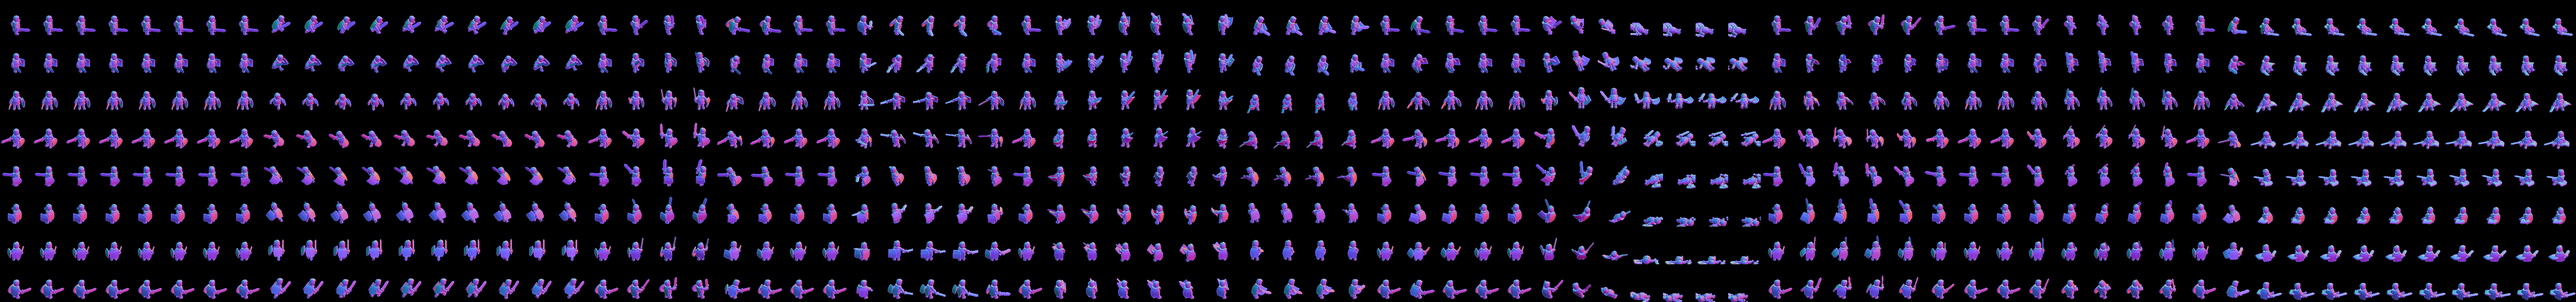
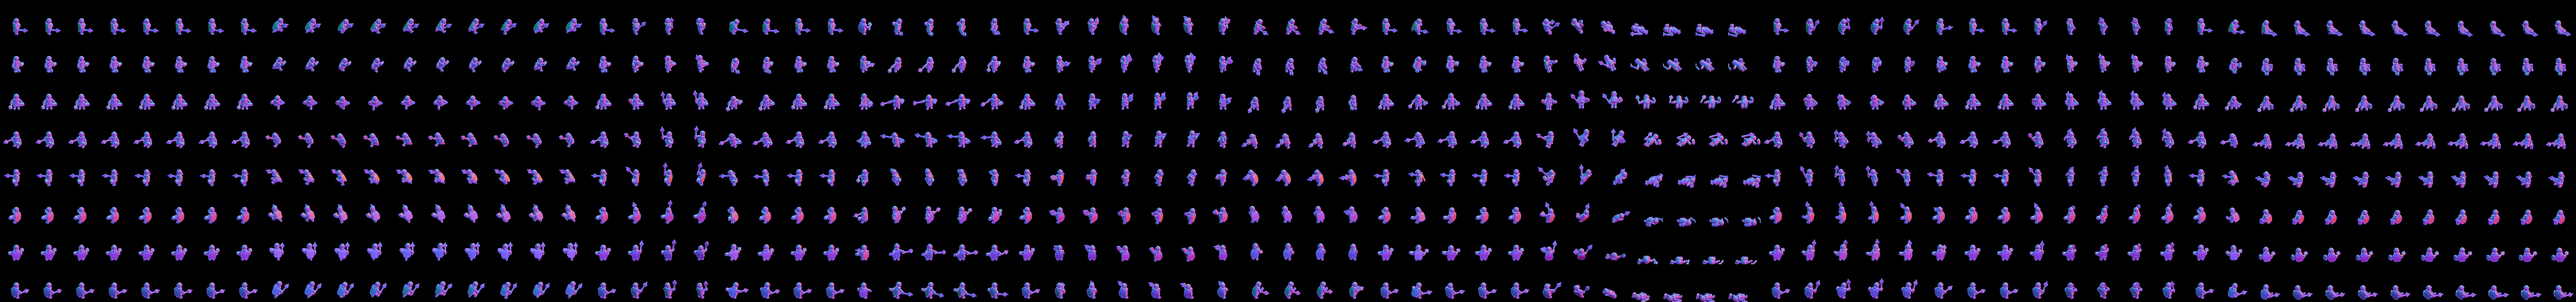
Cleric: off-white vestments and a flanged mace, clearly not a fighter
The cleric looked like a bareheaded knight (a warm-grey recolour of the
Knight, with sword and kite shield). It is now the KayKit Mage with the
robe swatch repainted off-white, gold trim, a grey stole (the Grey
Sisters), a chained psalter in the off hand and a flanged mace in the
sword hand. The mace is our own model, built in code.

Actor lab:
- props.js (new), shared by the figure and icon bakes:
  - PROPS.mace: an ash haft, leather grip, brass bands, and six
    diamond-profile iron flanges. The first box flanges read as a
    block at 56 px; the diamond profile gives a star silhouette.
  - swatches()/repaint(): recolour whole swatches of a KayKit 8 × 4
    gradient texture by each swatch's own luminance, so only the parts
    that use a swatch change and their shading survives. The old C1
    CSS filter tinted everything, face included.
- lab.js: new variant knobs `hold` ({ bone: prop }, carried like the
  kits' 1H weapons; it gets weapon anchors) and `swatches`.
- iconlab.js / icons.cjs: proc "mace"; `swatches` on kit meshes, or a
  variant's (`"swatches": "C1"`).
- Re-baked hero_cleric (79 frames × 8 dirs). New icons: mace, psalter,
  armor_vestments.

Items: the cleric's kit is now Mace, Chained Psalter, Vestments and
Pilgrim Boots. Each copies the stats of the item it replaces (Chapel
Sword, Kite Shield, Plate Harness, Sabatons), so the class's numbers are
identical at every level. A new test in test/cleric.test.mjs checks this
[…]

diff --git a/tools/actor-lab/props.js b/tools/actor-lab/props.js
@@ -1,0 +1,63 @@
+// props.js — what the KayKit packs don't have, shared by the figure bake (lab.js) and the icon
+// bake (iconlab.js) so the weapon in a hand and its icon are one object:
+//   PROPS      small code-built meshes a variant can put in a hand slot (`hold` in variants.json)
+//   swatches() repaint whole colour swatches of a KayKit texture (`swatches` in variants.json)
+// Our own models, so no licence beyond the repo's.
+import * as THREE from 'three';
+
+const mat = (color, metalness, roughness) => new THREE.MeshStandardMaterial({ color, metalness, roughness });
+
+// Each prop runs along +y from the grip (the hand slot's origin), like the kits' one-handed
+// weapons (the 1H sword: −0.37 … 1.41), so the swing clips carry it the same way.
+export const PROPS = {
+  // a flanged mace: dark ash haft, leather grip, brass bands, an iron head of six flanges
+  mace: () => {
+    const g = new THREE.Group(); g.name = 'Mace';
+    const wood = mat(0x4a3322, 0, 0.85), leather = mat(0x2e1f18, 0, 0.9), brass = mat(0xb8903c, 0.8, 0.35), iron = mat(0x9aa0a6, 0.85, 0.35);
+    const add = (geo, m, y, name) => { const o = new THREE.Mesh(geo, m); o.position.y = y; o.name = name; g.add(o); return o; };
+    add(new THREE.CylinderGeometry(0.062, 0.07, 1.02, 10), wood, 0.28, 'Mace_Haft');
+    add(new THREE.CylinderGeometry(0.08, 0.08, 0.34, 10), leather, -0.02, 'Mace_Grip');
+    add(new THREE.SphereGeometry(0.1, 12, 8), brass, -0.25, 'Mace_Pommel');
+    for (const y of [0.17, 0.7]) add(new THREE.CylinderGeometry(0.085, 0.085, 0.06, 12), brass, y, 'Mace_Band');
+    add(new THREE.CylinderGeometry(0.12, 0.1, 0.38, 12), iron, 0.92, 'Mace_Head');
+    // the flanges: six pointed blades standing out from the head (a diamond profile, so the
+    // silhouette is a star, not a block)
+    const blade = new THREE.Shape([[0, -0.22], [0.13, -0.06], [0.14, 0.06], [0, 0.22]].map(([x, y]) => new THREE.Vector2(x, y)));
+    const fg = new THREE.ExtrudeGeometry(blade, { depth: 0.05, bevelEnabled: false }); fg.translate(0, 0, -0.025);
+    for (let k = 0; k < 6; k++) {
+      const f = new THREE.Mesh(fg, iron), a = k * Math.PI / 3;
+      f.position.set(Math.cos(a) * 0.1, 0.92, Math.sin(a) * 0.1); f.rotation.y = -a; f.name = 'Mace_Flange'; g.add(f);
+    }
+    add(new THREE.ConeGeometry(0.1, 0.16, 10), iron, 1.18, 'Mace_Cap');
+    add(new THREE.SphereGeometry(0.065, 10, 8), brass, 1.28, 'Mace_Knop');
+    return g;
+  },
+};
+
+// KayKit textures are an 8 × 4 grid of gradient swatches; a mesh's colour is the swatch its UVs
+// sit in. swatches(image, [{ tile: [col, row], to: [light, dark] }]) repaints each listed swatch
+// between two colours by the swatch's own luminance, so its gradient and highlight stripe survive.
+export function swatches(img, list) {
+  const cv = document.createElement('canvas'); cv.width = img.width; cv.height = img.height;
+  const x = cv.getContext('2d', { willReadFrequently: true }); x.drawImage(img, 0, 0);
+  const tw = img.width / 8, th = img.height / 4, hex = (h) => [1, 3, 5].map((i) => parseInt(h.slice(i, i + 2), 16));
+  for (const { tile: [c, r], to: [light, dark] } of list) {
+    const d = x.getImageData(c * tw, r * th, tw, th), p = d.data, L = hex(light), D = hex(dark);
+    let lo = 255, hi = 0; const lum = (i) => 0.3 * p[i] + 0.59 * p[i + 1] + 0.11 * p[i + 2];
+    for (let i = 0; i < p.length; i += 4) { const l = lum(i); lo = Math.min(lo, l); hi = Math.max(hi, l); }
+    for (let i = 0; i < p.length; i += 4) { const t = hi > lo ? (lum(i) - lo) / (hi - lo) : 1; for (let k = 0; k < 3; k++) p[i + k] = D[k] + (L[k] - D[k]) * t; }
+    x.putImageData(d, c * tw, r * th);
+  }
+  return cv;
+}
+
+// swap every textured material under `root` for one whose map has the swatches repainted
+export function repaint(root, list) {
+  const done = new Map();
+  root.traverse((o) => { if (!o.isMesh || !o.material.map || /Eyes/.test(o.name)) return;
+    let m = done.get(o.material);
+    if (!m) { const src = o.material.map, t = new THREE.CanvasTexture(swatches(src.image, list));
+      t.flipY = src.flipY; t.colorSpace = src.colorSpace; t.magFilter = src.magFilter; t.minFilter = src.minFilter; t.wrapS = src.wrapS; t.wrapT = src.wrapT;
+      m = o.material.clone(); m.map = t; done.set(o.material, m); }
+    o.material = m; });
+}

diff --git a/src/sim/items.js b/src/sim/items.js
@@ -8,7 +8,7 @@
 // Rare 2); mod = a Rare's ability modifier ({ ab, k: 'cost' | 'power', v }).
 // Stat keys: hp, mp, atk, def, crit, dodge (%), hpr, mpr (per second).
 // A base belongs to one class (cls), or 'any'; `also` lists other classes that can wear it
-// (the cleric shares the fighter's shields, plate and sword).
+// (the cleric can also wear the fighter's shields, plate and sword).
 
 export const SLOTS = ['weapon', 'off', 'helm', 'armor', 'boots', 'trinket'];
 export const SLOT_LABEL = { weapon: 'Weapon', off: 'Off-hand', helm: 'Helm', armor: 'Armor', boots: 'Boots', trinket: 'Trinket' };
@@ -56,7 +56,13 @@ export const BASES = {
   witchhat:    { name: 'Witch Hat', slot: 'helm', cls: 'mage', icon: 'hat_mage', kind: 'robes', st: { def: [0.3, 0.08], mp: [3, 1.1] } },
   robes:       { name: 'Robes', slot: 'armor', cls: 'mage', icon: 'armor_robe', kind: 'robes', st: { def: [0.5, 0.18], mp: [4, 1.6] } },
   slippers:    { name: 'Slippers', slot: 'boots', cls: 'mage', icon: 'boots_mage', kind: 'robes', st: { def: [0.2, 0.06], mpr: [0.1, 0.02] } },
-  // ── cleric (plus the fighter's sword, shields, great helm, plate and sabatons)
+  // ── cleric (plus the fighter's sword, shields, great helm, plate and sabatons). The kit the
+  // model wears (mace, psalter, vestments, pilgrim boots) carries the same stats the old
+  // sword-and-plate kit did, so the class's numbers didn't move when its look changed.
+  mace:        { name: 'Mace', slot: 'weapon', cls: 'cleric', hands: 1, icon: 'mace', kind: 'mace', st: { atk: [0.9, 0.32], mp: [2, 0.8] }, metal: true },
+  psalter:     { name: 'Chained Psalter', slot: 'off', cls: 'cleric', icon: 'psalter', kind: 'prayer book', st: { def: [1.2, 0.32] } },
+  vestments:   { name: 'Vestments', slot: 'armor', cls: 'cleric', icon: 'armor_vestments', kind: 'robes', st: { def: [1, 0.35], hp: [5, 2] } },
+  pilgrimboots: { name: 'Pilgrim Boots', slot: 'boots', cls: 'cleric', icon: 'boots_mage', kind: 'leather', st: { def: [0.5, 0.15] } },
   chapelsword: { name: 'Chapel Sword', slot: 'weapon', cls: 'cleric', hands: 1, icon: 'sword_1h', kind: 'sword', st: { atk: [0.9, 0.32], mp: [2, 0.8] }, metal: true },
   hours:       { name: 'Book of Hours', slot: 'off', cls: 'cleric', icon: 'tome', kind: 'prayer book', st: { mp: [4, 1.4], def: [0.3, 0.1] } },
   // ── trinkets (any class)
@@ -69,7 +75,7 @@ export const STARTER = {
   fighter: { weapon: 'sword', off: 'roundshield', helm: 'greathelm', armor: 'plate', boots: 'sabatons' },
   rogue: { weapon: 'dagger', off: 'offdagger', helm: 'hood', armor: 'leathers', boots: 'softboots' },
   mage: { weapon: 'staff', helm: 'witchhat', armor: 'robes', boots: 'slippers' },
-  cleric: { weapon: 'chapelsword', off: 'kite', armor: 'plate', boots: 'sabatons' },   // bareheaded, the Sisters' badge on the shield
+  cleric: { weapon: 'mace', off: 'psalter', armor: 'vestments', boots: 'pilgrimboots' },   // bareheaded, off-white vestments (a Grey Sister's cleric)
 };
 export const CLASS_IDS = ['fighter', 'rogue', 'mage', 'cleric'];
 /** the classes that can wear a base ([] = any) @param {any} B */

diff --git a/tools/actor-lab/lab.js b/tools/actor-lab/lab.js
@@ -3,8 +3,9 @@
 // figure is TARGET_PX tall at native resolution, no AA. Driven by render.cjs.
 //
 // Variant knobs (see variants.json): which accessory meshes to show (loadout),
-// weapons to parent onto hand bones, a CSS-filter texture recolor (enemy NPCs
-// reuse hero models), glowing-eye color, pose clip, and stock vs HEROIC
+// weapons to parent onto hand bones, code-built props for a hand slot and swatch
+// repaints (props.js: the cleric's mace and vestments), a CSS-filter texture recolor
+// (enemy NPCs reuse hero models), glowing-eye color, pose clip, and stock vs HEROIC
 // proportions. Heroic = smaller head + joints pushed outward to lengthen legs,
 // arms and torso without thickening them; applied AFTER each pose is sampled,
 // because the clips key scale + translation on every bone.
@@ -13,6 +14,7 @@
 // 'lowerleg.l' → 'lowerlegl'); findNode()/applyHeroic() match both spellings.
 import * as THREE from 'three';
 import { GLTFLoader } from 'three/addons/loaders/GLTFLoader.js';
+import { PROPS, repaint } from './props.js';
 // figure height in native px (?px=, default 46); the cell scales with it, feet sit 6px above the bottom
 const TARGET_PX = +(new URLSearchParams(location.search).get('px') || 46);
 const W = Math.round(72 * TARGET_PX / 46), H = Math.round(84 * TARGET_PX / 46);
@@ -58,6 +60,8 @@ async function build(v) {
   const acc = ACC[v.model] || [];
   root.traverse((o) => { if (o.isMesh) { o.frustumCulled = false; if (acc.includes(o.name) && !(v.show || []).includes(o.name)) o.visible = false; } });
   for (const [bone, file] of Object.entries(v.attach || {})) { const w = await load(`./models/${file}`); findNode(root, bone)?.add(w.scene); }
+  for (const [bone, name] of Object.entries(v.hold || {})) { const p = PROPS[name](); p.position.y = 0.033; findNode(root, bone)?.add(p); }   // sits like the kits' 1H weapons
+  if (v.swatches) repaint(root, v.swatches);
   if (v.recolor) recolor(root, v.recolor);
   if (v.eyes) root.traverse((o) => { if (o.isMesh && /Eyes/.test(o.name)) { o.material = o.material.clone(); o.material.emissive = new THREE.Color(v.eyes); o.material.emissiveIntensity = 3; } });
   return { root, mixer: new THREE.AnimationMixer(root), clips: g.animations };

diff --git a/tools/actor-lab/iconlab.js b/tools/actor-lab/iconlab.js
@@ -2,9 +2,12 @@
 // and the weapon in the figure's hand are one object. Each icon isolates one accessory mesh
 // (or a small procedural trinket), turns it to the classic RPG diagonal (grip bottom-left,
 // point top-right) with a 3/4 tilt, lights it warm key + cool rim, renders at 4× and
-// area-averages down, then adds a 1 px ink outline. Driven by icons.cjs (icons.json).
+// area-averages down, then adds a 1 px ink outline. Driven by icons.cjs (icons.json). A spec's
+// `swatches` repaints the kit texture the way the figure's variant does (props.js), and the
+// cleric's mace is the same code-built prop the figure holds.
 import * as THREE from 'three';
 import { GLTFLoader } from 'three/addons/loaders/GLTFLoader.js';
+import { PROPS, repaint } from './props.js';
 
 const SS = 4, INK = [10, 7, 16];
 const R = new THREE.WebGLRenderer({ antialias: false, alpha: true, preserveDrawingBuffer: true });
@@ -16,6 +19,7 @@ const std = (color, o = {}) => new THREE.MeshStandardMaterial({ color, metalness
 
 // small trinkets the kits don't have
 const PROC = {
+  mace: () => { const g = new THREE.Group(), m = PROPS.mace(); m.rotation.z = -Math.PI / 4; m.rotation.y = 0.26; g.add(m); g.rotation.x = 0.3; return g; },   // grip bottom-left, head top-right
   ring: () => { const g = new THREE.Group(), gold = std(0xd9a441, { metalness: 0.95, roughness: 0.28 });
     g.add(new THREE.Mesh(new THREE.TorusGeometry(1, 0.2, 18, 56), gold));
     const set = new THREE.Mesh(new THREE.CylinderGeometry(0.34, 0.4, 0.22, 16), gold); set.position.y = 1.12; g.add(set);
@@ -36,6 +40,9 @@ const PROC = {
 // the accessory as a standalone group (its meshes re-expressed relative to the node)
 async function part(spec) {
   if (spec.proc) return PROC[spec.proc]();
+  const out = await kitPart(spec); if (spec.swatches) repaint(out, spec.swatches); return out;
+}
+async function kitPart(spec) {
   const g = (await load(`./models/${spec.file}`)).scene; g.updateMatrixWorld(true);
   const names = spec.meshes || [spec.mesh], out = new THREE.Group();
   const first = spec.mesh || spec.meshes ? g.getObjectByName(names[0]) : g; if (!first) throw new Error('no mesh ' + names[0]);

diff --git a/docs/emberfall-gdd.md b/docs/emberfall-gdd.md
@@ -253,11 +253,13 @@ from the Grey Sisters, world doc §4): playable at creation and hireable at ever
 | Class bonus | +10 % DEF while carrying a shield | Crits from behind the target deal +25 % | Spells deal +20 % to a foe with two or more others within 2 tiles | Heals are +20 % stronger |
 | Abilities | **Cleave** (10 MP: 1.3× to target and adjacent) · **Shield Wall** (20 MP: +50 % DEF for 6 s, taunt) · **Second Wind** (25 MP: heal 25 % HP) | **Backstab** (10 MP: 1.6×, +25 % crit) · **Smoke Step** (15 MP: +30 % dodge for 5 s, drop aggro) · **Venom** (20 MP: poison over time) | **Firebolt** (12 MP: 1.8×) · **Frost Nova** (30 MP: 0.8× area, slow) · **Arcane Ward** (25 MP: shield an ally for 30 % of their max HP) | **Mend** (12 MP: heal the most hurt ally 22 % of max HP) · **Bless** (25 MP: the party +15 % ATK and DEF for 8 s) · **Turn Undead** (30 MP: 1.6× to every Ashbound within 3 tiles) |
 | Passive (20) | *Iron Hide*: +10 % DEF, double HP regen below 30 % HP | *Opportunist*: crits restore 5 MP | *Kindled Mind*: +25 % MP regen | *Lifeline*: once a room visit, an ally who would be Downed holds on at 1 HP |
-| Model (KayKit) | Knight / Barbarian | Rogue / Rogue Hooded | Mage | Knight, bareheaded, with the Sisters' badge shield, in warm grey |
+| Model (KayKit) | Knight / Barbarian | Rogue / Rogue Hooded | Mage | Mage, bareheaded, in off-white vestments with a grey stole, a flanged mace (our own model) and a chained psalter |
 
 The class bonuses sit on top of the class table: a fighter in the class kit (with its round
-shield) has 15.4 DEF. The kit is sword, kite shield, plate and sabatons for the cleric, which
-shares the fighter's sword, shields, great helm, plate and sabatons and has two items of its
+shield) has 15.4 DEF. The cleric's kit is a mace, a chained psalter, vestments and pilgrim boots.
+It carries the same stats as the fighter-style kit it replaced (sword, kite shield, plate and
+sabatons), so the class's numbers are unchanged; only its look is different. The cleric can also
+wear the fighter's sword, shields, great helm, plate and sabatons, and has two more items of its
 own (Chapel Sword, Book of Hours). Recommended build: Grit, Focus, Grit.
 
 **Future class** (sourced from the Grey Sisters in the world doc):

diff --git a/tools/actor-lab/README.md b/tools/actor-lab/README.md
@@ -69,6 +69,7 @@ WebGL. Set `CHROME_PATH` if Chromium isn't at the sandbox's `/opt/pw-browsers` p
 | file | role |
 |---|---|
 | `lab.js` / `lab.html` | three.js harness: loadouts, weapon attachment, recolor, glowing eyes, heroic pass, render |
+| `props.js` | what the kits lack, shared by figures and icons: code-built props (the cleric's mace) and the swatch repaint |
 | `variants.json` | the roster: 10 hero loadouts (fighter/rogue/mage) + 8 enemy NPCs |
 | `bake.cjs` / `bake.json` | bake the shipped actor atlases into `assets/actors/` |
 | `icons.cjs` / `iconlab.js` / `icons.json` | bake the item icons into `assets/items/` (one kit mesh or code-built trinket per icon, 96 px) |
@@ -83,6 +84,13 @@ WebGL. Set `CHROME_PATH` if Chromium isn't at the sandbox's `/opt/pw-browsers` p
 - `show` — accessory meshes to keep (every other accessory of that model is hidden), e.g.
   `["1H_Sword","Round_Shield","Knight_Helmet","Knight_Cape"]`. The full lists are in `ACC` in `lab.js`.
 - `attach` — `{ bone: file }` parents a weapon glTF onto `handslot.r` / `handslot.l` (skeleton weapons ship separately).
+- `hold` — `{ bone: prop }` puts one of our own code-built props (`PROPS` in `props.js`) in a hand
+  slot, along +y like the kits' one-handed weapons. It gets weapon anchors like any held weapon.
+  `C1`, the cleric, holds `"mace"`.
+- `swatches` — `[{ tile: [col, row], to: [light, dark] }]` repaints whole swatches of the kit's
+  8 × 4 gradient-swatch texture by the swatch's own luminance, so its gradient survives and only
+  the parts that use that swatch change. The cleric's off-white vestments are the Mage's robe
+  swatch `[0, 1]`. Icons can reuse a variant's swatches (`"swatches": "C1"` in `icons.json`).
 - `recolor` — a CSS filter applied to the model's colour texture; how human enemy NPCs reuse hero models.
   (Look-dev only: the shipping version should remap swatches in the small palette texture exactly.)
 - `eyes` — emissive colour for the skeletons' separate `*_Eyes` mesh.

diff --git a/docs/emberfall-world.md b/docs/emberfall-world.md
@@ -2,7 +2,8 @@
 
 **v1.2 · 2026-09-29 · Companion to [emberfall-gdd.md](./emberfall-gdd.md).**
 
-v1.2 changes the pitch to *"The heroes of this age are not available… Looks like it is up to you."*
+v1.2 dresses the Grey Sisters' clerics (§4: off-white vestments, a mace and a chained psalter),
+changes the pitch to *"The heroes of this age are not available… Looks like it is up to you."*
 (the intro's closing card)
 and adds the old roads (§3.6) and the loading tips (§7).
 
@@ -126,7 +127,7 @@ marching dead: they run straight through anything in the way, hill, bog or villa
 | **The Cinder Cult** | Zealots who believe the Ember was *stolen* and must be relit | To rekindle the Ember Throne | **Main antagonists.** Human enemies, necromancers and the source of the rising dead. |
 | **The Ashbound** | The empire's bound dead, waking as the Cult stirs the embers | Nothing. They obey old orders. | **The main enemy family.** Four skeleton archetypes plus elites. They glow with the Ember's colours. |
 | **The Redhand Company** | Deserters turned bandits | Loot, and to be left alone | Act I human enemies; recurring later as hirelings. |
-| **The Grey Sisters** | Healers and archivists in the fens | To preserve the old records | Lore keepers. Source of the **Cleric** class (their clerics walk the Vale roads, and some take coin at a tavern) and, later, the **Healer**. |
+| **The Grey Sisters** | Healers and archivists in the fens | To preserve the old records | Lore keepers. Source of the **Cleric** class (their clerics walk the Vale roads in off-white vestments with a flanged mace and a chained psalter, and some take coin at a tavern) and, later, the **Healer**. |
 | **The Deepdelvers** | Miners' charter in the Cinder Reach (dwarf-folk) | To reopen the old seams | Neutral traders; the smith upgrades. |
 | **Lord Pellam's Watch** | Greyholt's underpaid militia | Order, cheaply | Bounties; comic relief; occasionally brave. |
 

diff --git a/assets/CREDITS.md b/assets/CREDITS.md
@@ -11,6 +11,10 @@ pass and the "grim" colour pass, then packed into albedo / normal / emissive atl
 source models are downloaded by `tools/actor-lab/fetch-assets.sh` and are never
 committed.
 
+The cleric (`hero_cleric`) is the KayKit Mage with its robe, trim, stole and book swatches
+repainted (off-white vestments) and a flanged mace that is **our own**, built in code
+(`tools/actor-lab/props.js`); the same mace is the item icon `assets/items/mace.png`.
+
 The earlier POC atlases (a Flare CC BY-SA 3.0 skeleton and the `isometric_hero`
 knight) have been removed.
 
